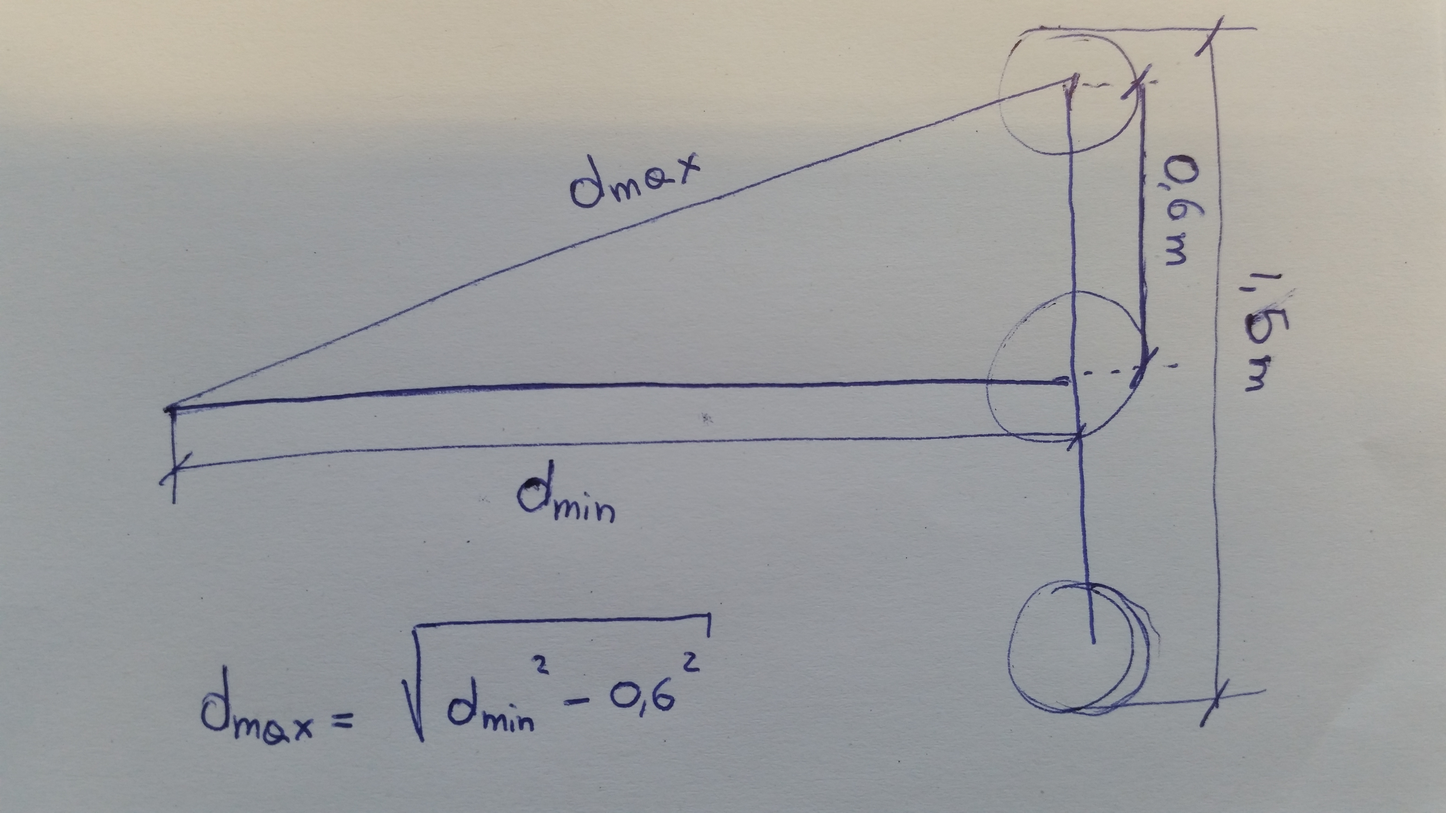
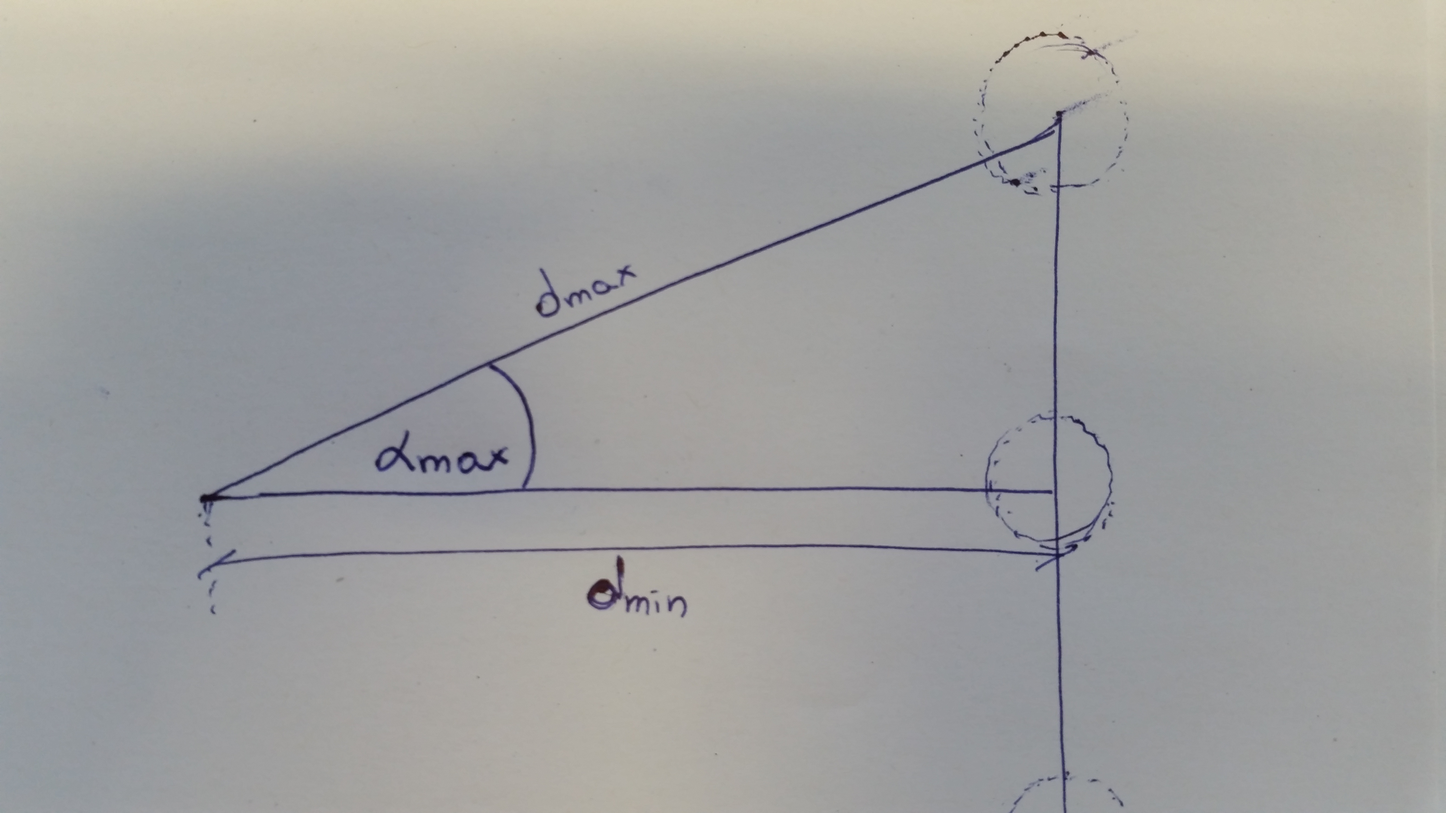
Drehrad Versuch

diff --git a/tex/konzept/vt-drehraeder.tex b/tex/konzept/vt-drehraeder.tex
@@ -1,1 +1,19 @@
 \subsubsection{Drehräder-Modell}
+\begin{figure}[h!]
+	\begin{subfigure}{.5\textwidth}
+		\includegraphics[width=1\textwidth]{../../fig/Versuch_Drehrad.png}
+		\caption{Schrägen Wurf von der Seite}
+		\label{fig:Aufbau der Versuch}
+	\end{subfigure} %
+	\begin{subfigure}{.5\textwidth}
+		\includegraphics[width=1\textwidth]{../../fig/Drehrad_1.jpg}
+		\caption{Schrägen Wurf von Oben}
+		\label{fig:Drehrad}
+	\end{subfigure}
+	\caption{Berechnung der Schräger Wurf}
+	\label{Drehrad Versuch}
+\end{figure}
+Wir haben einen 15 cm Durchmesser Drehrad aus PVC benutzt um einem Prototyp unseres Wurfmaschine zu Aufbauen. Als Betriebsmotor haben wir ein Akkubohrermaschine benutzt.
+Mit ein kleines Aufbau haben wir versucht die Regelmässigkeit zu testen. Es war uns nicht wichtig ob die genaue Distanz erreicht wurde, sonst nur ob es bei jedem Schuss immer auf der selbe Abstand war. Mit der Versuch sollte auch nachgeschaut werden, was für eine Auswirkung der Drehung der Ball haben könnte. Der Versuch in 2 Arten gemacht: ein erstes mal mit der Drehrad oben der Ball, und ein zweites mit der Drehrad unten. Mit diesem Unterschied würde möglich die Auswirkung der Drehung der Ball zu festlegen und auch welche Vorrichtung einem besserem Schuss geben kann.\\
+Nach mehrere versuche wurde festgelegt das es, auch mit ein groben Aufbau, dieses Wurfsystem sehr regelmässig ist. \\
+

diff --git a/tex/konzept/wichtige-berechnungen.tex b/tex/konzept/wichtige-berechnungen.tex
@@ -25,7 +25,8 @@ mit ein Winkel von ca. 50°. Für die Berechnungen wurde auch ein Rad mit ein Du
 	rpm=60*f
 \end{gather}
 
-Mit unsere bedingungen ergibt sich eine Geschwindigkeit von 4.18 m/s und ein rpm von 800 U/min bei $d_min$, 
-und eine Geschwindigkeit von 4.29 m/s und ein rpm von 820 U/min bei $d_max$. 
-Die Abweichung liegt rund um 2.5\%, und wird mid der Steurung der Motor angepasst. \\
+Mit unsere bedingungen ergibt sich eine Geschwindigkeit von 4.18 m/s und ein rpm von 800 U/min bei $d_{min}$, 
+und eine Geschwindigkeit von 4.29 m/s und ein rpm von 820 U/min bei $d_{max}$. 
+Die Abweichung liegt rund um 2.5\%, und wird mid der Steurung der Motor angepasst.
+Der Maximale Winkel $\alpha_{max}$ ist 19°. \\
 Diese Berechnungen sind Rein theoretisch und Faktoren wie Reibung wurden nicht berücksichtigt. Aus diesem Grund werden als Mindistanforderungen behandelt.
